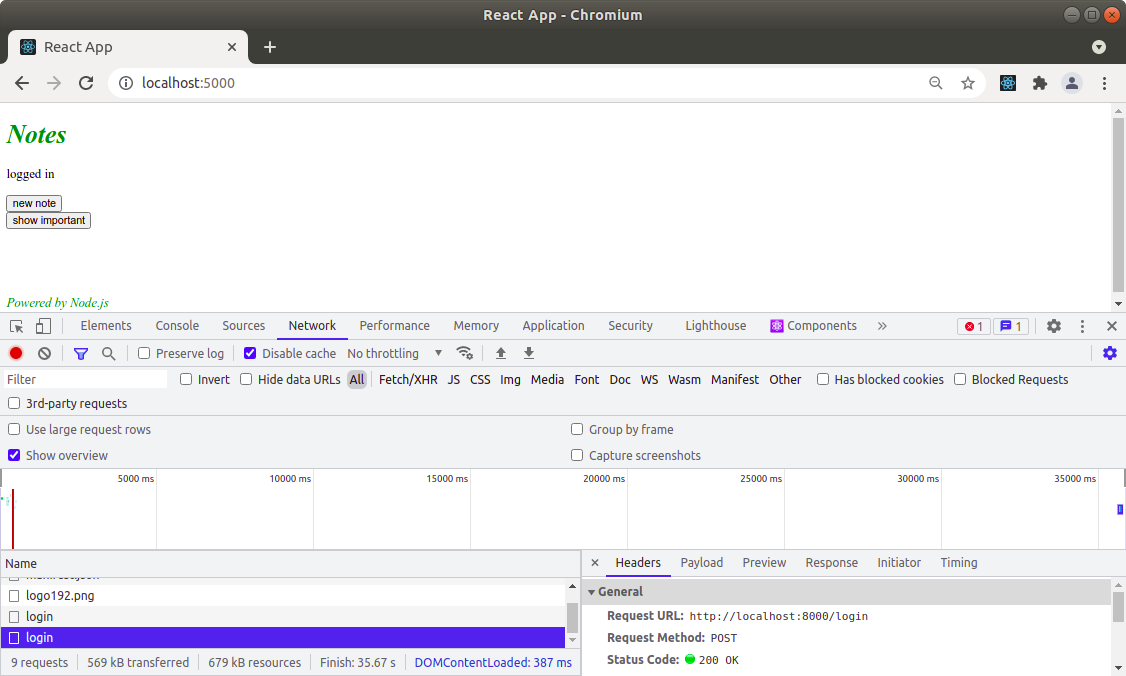
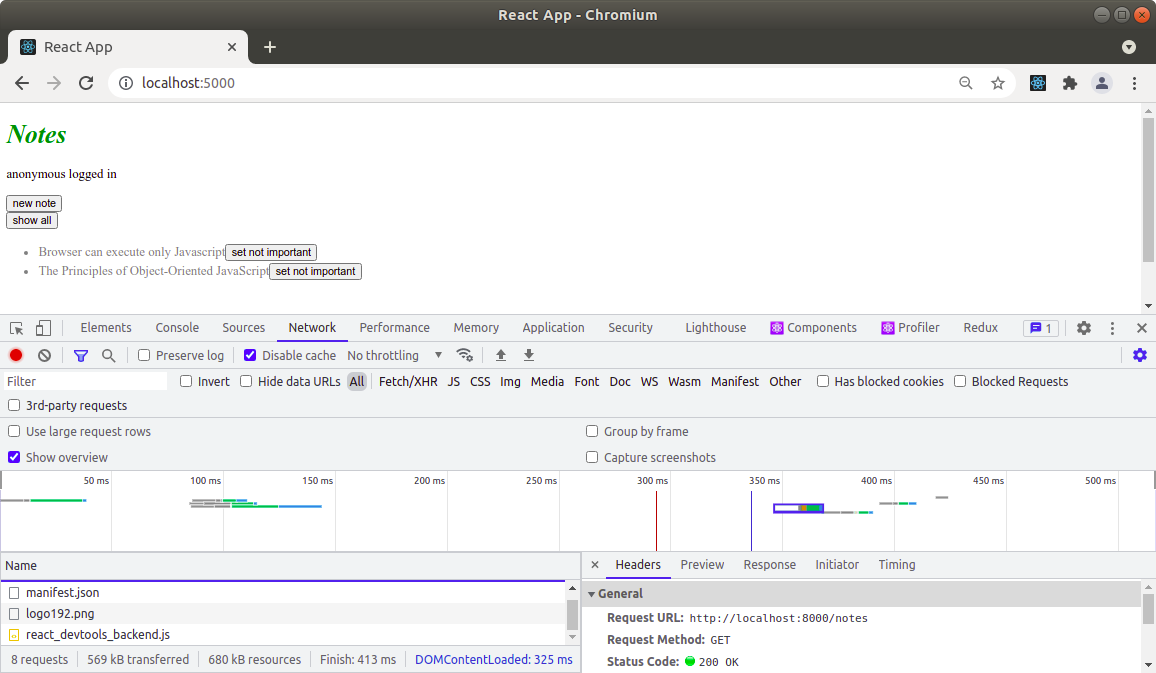
1.15

diff --git a/1/1.15/server/README.md b/1/1.15/server/README.md
@@ -18,5 +18,7 @@ $ curl -v http://localhost:8000/notes \
     --header "Content-Type: application/json" \
     --request "GET"
 
+$ curl -X "POST" http://localhost:8000/login -H "Content-Type: application/json" -d "{\"username\":\"anonymous\", \"password\":\"12345\"}"
+
 ```
 ![alt text](https://github.com/jylhakos/DevOpsWithDocker/blob/main/1/1.15/server/1.15.png?raw=true)
